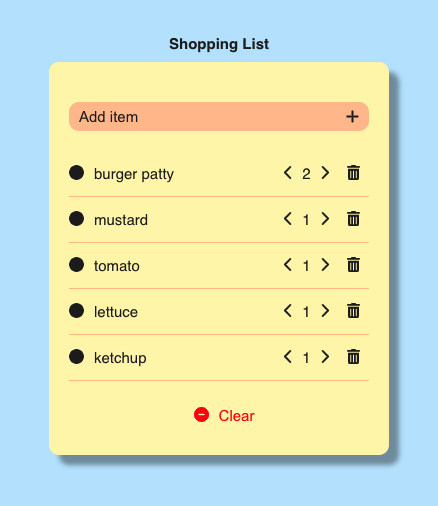
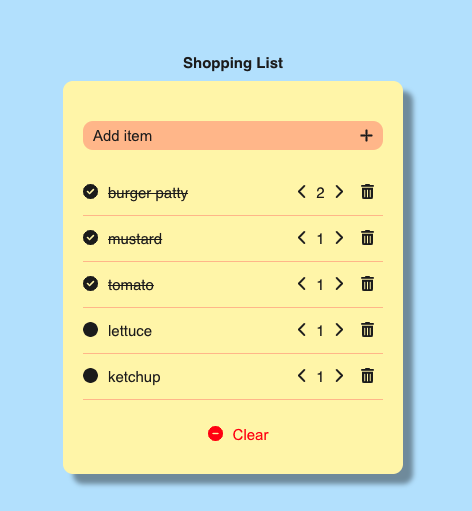
added a new project

Changed region(s): [[0.089, 0.0593, 0.9201, 0.9486], [0.4452, 0.8004, 0.5936, 0.8597]]

diff --git a/src/components/experience/Experience.jsx b/src/components/experience/Experience.jsx
@@ -3,84 +3,89 @@ import "./experience.css";
 import { AiFillCheckCircle } from "react-icons/ai";
 
 const Experience = () => {
-  return (
-    <section id="experience">
-      <h5>What Skills I Have</h5>
-      <h2>My Experience</h2>
+    return (
+        <section id="experience">
+            <h5>What Skills I Have</h5>
+            <h2>My Experience</h2>
 
-      <div className="container experience__container">
-        {/* frontend */}
-        <div className="experience__frontend">
-          <h3>Frontend Development</h3>
-          <div className="experience__content">
-            <article className="experience__details">
-              <AiFillCheckCircle className="experience__details-icon" />
-              <div>
-                <h4>HTML</h4>
-                <small className="text-light"></small>
-              </div>
-            </article>
-            <article className="experience__details">
-              <AiFillCheckCircle className="experience__details-icon" />
-              <div>
-                <h4>CSS</h4>
-                <small className="text-light"></small>
-              </div>
-            </article>
-            <article className="experience__details">
-              <AiFillCheckCircle className="experience__details-icon" />
-              <div>
-                <h4>JavaScript</h4>
-                <small className="text-light"></small>
-              </div>
-            </article>
-            <article className="experience__details">
-              <AiFillCheckCircle className="experience__details-icon" />
-              <div>
-                <h4>JQuery</h4>
-                <small className="text-light"></small>
-              </div>
-            </article>
-            <article className="experience__details">
-              <AiFillCheckCircle className="experience__details-icon" />
-              <div>
-                <h4>Bootstrap</h4>
-                <small className="text-light"></small>
-              </div>
-            </article>
-            <article className="experience__details">
-              <AiFillCheckCircle className="experience__details-icon" />
-              <div>
-                <h4>React</h4>
-                <small className="text-light"></small>
-              </div>
-            </article>
-          </div>
-        </div>
-        {/* backend */}
-        <div className="experience__backend">
-          <h3>Backend Development</h3>
-          <div className="experience__content">
-            <article className="experience__details">
-              <AiFillCheckCircle className="experience__details-icon" />
-              <h4>Node JS</h4>
-              <small className="text-light"></small>
-            </article>
-            <article className="experience__details">
-              <AiFillCheckCircle className="experience__details-icon" />
-              <h4>MySQL</h4>
-              <small className="text-light"></small>
-            </article>
-            <article className="experience__details">
-              <AiFillCheckCircle className="experience__details-icon" />
-              <h4>MongoDB</h4>
-              <small className="text-light"></small>
-            </article>
-          </div>
-        </div>
-      </div>
-    </section>
-  );
+            <div className="container experience__container">
+                {/* frontend */}
+                <div className="experience__frontend">
+                    <h3>Frontend Development</h3>
+                    <div className="experience__content">
+                        <article className="experience__details">
+                            <AiFillCheckCircle className="experience__details-icon" />
+                            <div>
+                                <h4>React.js</h4>
+                                <small className="text-light"></small>
+                            </div>
+                        </article>
+                        <article className="experience__details">
+                            <AiFillCheckCircle className="experience__details-icon" />
+                            <div>
+                                <h4>JavaScript</h4>
+                                <small className="text-light"></small>
+                            </div>
+                        </article>
+                        <article className="experience__details">
+                            <AiFillCheckCircle className="experience__details-icon" />
+                            <div>
+                                <h4>HTML</h4>
+                                <small className="text-light"></small>
+                            </div>
+                        </article>
+                        <article className="experience__details">
+                            <AiFillCheckCircle className="experience__details-icon" />
+                            <div>
+                                <h4>CSS</h4>
+                                <small className="text-light"></small>
+                            </div>
+                        </article>
+                        <article className="experience__details">
+                            <AiFillCheckCircle className="experience__details-icon" />
+                            <div>
+                                <h4>JQuery</h4>
+                                <small className="text-light"></small>
+                            </div>
+                        </article>
+                        <article className="experience__details">
+                            <AiFillCheckCircle className="experience__details-icon" />
+                            <div>
+                                <h4>Bootstrap</h4>
+                                <small className="text-light"></small>
+                            </div>
+                        </article>
+                    </div>
+                </div>
+                {/* backend */}
+                <div className="experience__backend">
+                    <h3>Backend Development</h3>
+                    <div className="experience__content">
+                        <article className="experience__details">
+                            <AiFillCheckCircle className="experience__details-icon" />
+                            <h4>Node.js</h4>
+                            <small className="text-light"></small>
+                        </article>
+                        <article className="experience__details">
+                            <AiFillCheckCircle className="experience__details-icon" />
+                            <h4>Express.js</h4>
+                            <small className="text-light"></small>
+                        </article>
+                        <article className="experience__details">
+                            <AiFillCheckCircle className="experience__details-icon" />
+                            <h4>MySQL</h4>
+                            <small className="text-light"></small>
+                        </article>
+                        <article className="experience__details">
+                            <AiFillCheckCircle className="experience__details-icon" />
+                            <h4>MongoDB</h4>
+                            <small className="text-light"></small>
+                        </article>
+                    </div>
+                </div>
+            </div>
+        </section>
+    );
 };
 
 export default Experience;

diff --git a/src/components/portfolio/Portfolio.jsx b/src/components/portfolio/Portfolio.jsx
@@ -2,8 +2,8 @@ import React from "react";
 import "./portfolio.css";
 import Booklastic from "../../assets/booklastic-blog.png";
 import MemeGenerator from "../../assets/Meme-Generator.png";
-import PwGenerator from "../../assets/pwGenerator.png";
-import shoppingList from "../../assets/shopping-list.png";
+import WeatherApp from "../../assets/weather-app.png";
+import ShoppingList from "../../assets/shopping-list.png";
 
 const Portfolio = () => {
     return (
@@ -33,6 +33,7 @@ const Portfolio = () => {
                             href="https://fathomless-bastion-58602.herokuapp.com/"
                             className="btn"
                             target="_blank"
+                            rel="noreferrer"
                         >
                             Deployed
                         </a>
@@ -40,6 +41,7 @@ const Portfolio = () => {
                             href="https://github.com/JTreezy/booklastic-blog-place"
                             className="btn btn-primary"
                             target="_blank"
+                            rel="noreferrer"
                         >
                             Github
                         </a>
@@ -63,6 +65,7 @@ const Portfolio = () => {
                             href="https://ryuandrew.github.io/Project-1-Team-13/"
                             className="btn"
                             target="_blank"
+                            rel="noreferrer"
                         >
                             Deployed
                         </a>
@@ -70,6 +73,7 @@ const Portfolio = () => {
                             href="https://ryuandrew.github.io/MemeGenerator/"
                             className="btn btn-primary"
                             target="_blank"
+                            rel="noreferrer"
                         >
                             Github
                         </a>
@@ -77,27 +81,30 @@ const Portfolio = () => {
                 </article>
                 <article className="portfolio__item">
                     <div className="portfolio__item-image">
-                        <img src={PwGenerator} alt="pw generator" />
+                        <img src={WeatherApp} alt="weather app" />
                     </div>
-                    <h3>Random Password Generator</h3>
+                    <h3>Weather App</h3>
                     <p>
-                        Developed a random password generator website that helps
-                        the users to create a strong password based on the
-                        criteria they have selected. The website is built using
-                        HTML, CSS, and JavaScript.
+                        Developed a weather application using the OpenWeather
+                        One Call API to retrieve weather data such as current
+                        temperature, maximum temperature, and minimum
+                        temperature for cities around the world. The website is
+                        built using HTML, CSS, JavaScript, and React.js.
                     </p>
                     <div className="portfolio__item-cta">
                         <a
-                            href="https://ryuandrew.github.io/pwGenerator/"
+                            href="https://ryu-weather-app.netlify.app/"
                             className="btn"
                             target="_blank"
+                            rel="noreferrer"
                         >
                             Deployed
                         </a>
                         <a
-                            href="https://github.com/ryuandrew/pwGenerator"
+                            href="https://github.com/ryuandrew/ryu-weather-app-react"
                             className="btn btn-primary"
                             target="_blank"
+                            rel="noreferrer"
                         >
                             Github
                         </a>
@@ -105,21 +112,22 @@ const Portfolio = () => {
                 </article>
                 <article className="portfolio__item">
                     <div className="portfolio__item-image">
-                        <img src={shoppingList} alt="shopping list" />
+                        <img src={ShoppingList} alt="shopping list" />
                     </div>
                     <h3>Shopping List</h3>
                     <p>
                         Built a shopping list app to use personally with local
                         storage and React hooks such as useState() and
                         useEffect(). Users can add an item, delete an item,
-                        adjust the quantity of an item, and clear the entire
-                        list of items.
+                        adjust the quantity of an item, checkmark the purchased
+                        item, and clear the entire list of items.
                     </p>
                     <div className="portfolio__item-cta">
                         <a
                             href="https://andrew-shopping-list.netlify.app"
                             className="btn"
                             target="_blank"
+                            rel="noreferrer"
                         >
                             Deployed
                         </a>
@@ -127,6 +135,7 @@ const Portfolio = () => {
                             href="https://github.com/ryuandrew/shopping-list-netlify"
                             className="btn btn-primary"
                             target="_blank"
+                            rel="noreferrer"
                         >
                             Github
                         </a>

diff --git a/src/components/about/About.jsx b/src/components/about/About.jsx
@@ -5,51 +5,54 @@ import { FaAward } from "react-icons/fa";
 import { VscFolderOpened } from "react-icons/vsc";
 
 const About = () => {
-  return (
-    <section id="about">
-      <h5>Get To Know</h5>
-      <h2>About Me</h2>
+    return (
+        <section id="about">
+            <h5>Get To Know</h5>
+            <h2>About Me</h2>
 
-      <div className="container about__container">
-        <div className="about__me">
-          <div className="about__me-image">
-            <img src={Aboutme} alt="about img" />
-          </div>
-        </div>
+            <div className="container about__container">
+                <div className="about__me">
+                    <div className="about__me-image">
+                        <img src={Aboutme} alt="about img" />
+                    </div>
+                </div>
 
-        <div className="about__content">
-          <div className="about__cards">
-            <article className="about__card">
-              <FaAward className="about__icon" />
-              <h5>Experience</h5>
-              <small>UW Coding Bootcamp</small>
-            </article>
+                <div className="about__content">
+                    <div className="about__cards">
+                        <article className="about__card">
+                            <FaAward className="about__icon" />
+                            <h5>Experience</h5>
+                            <small>UW Coding Bootcamp</small>
+                        </article>
 
-            <article className="about__card">
-              <VscFolderOpened className="about__icon" />
-              <h5>Projects</h5>
-              <small>projects</small>
-            </article>
-          </div>
-          <p>
-            Andrew Ryu is an entry level web developer who is well-rounded and
-            experienced in complex analyses and problem solving in high pressure
-            work environments. He is an effective communicator and has a solid
-            background in mathematics and statistics. He is excited to apply the
-            quantitative skills he learned from working as an actuarial analyst
-            and continue to learn new programming languages to do more critical
-            thinking and problem solving as a web developer. Outside of work, he
-            enjoys singing and playing sports, such as boxing, HIIT workout, and
-            skiing.
-          </p>
+                        <article className="about__card">
+                            <VscFolderOpened className="about__icon" />
+                            <h5>Projects</h5>
+                            <small>projects</small>
+                        </article>
+                    </div>
+                    <p>
+                        I'm a Full-Stack Web Developer specializing in Frontend
+                        Development. Well-rounded and experienced in complex
+                        analyses and problem solving in high pressure work
+                        environments. Effective communicator with a strong
+                        background in mathematics and statistics. With the
+                        quantitative skills gained as an Actuarial Analyst, I'm
+                        excited to contribute to my growth as a Web
+                        Developer(JavaScript/React.js) and continue to learn new
+                        programming languages and apply critical thinking
+                        skills. Outside of work, I enjoy singing, dj'ing, and
+                        playing sports, such as boxing, HIIT workout, and
+                        skiing.
+                    </p>
 
-          <a href="#contact" className="btn btn-primary">
-            Let's Talk
-          </a>
-        </div>
-      </div>
-    </section>
-  );
+                    <a href="#contact" className="btn btn-primary">
+                        Let's Talk
+                    </a>
+                </div>
+            </div>
+        </section>
+    );
 };
 
 export default About;
